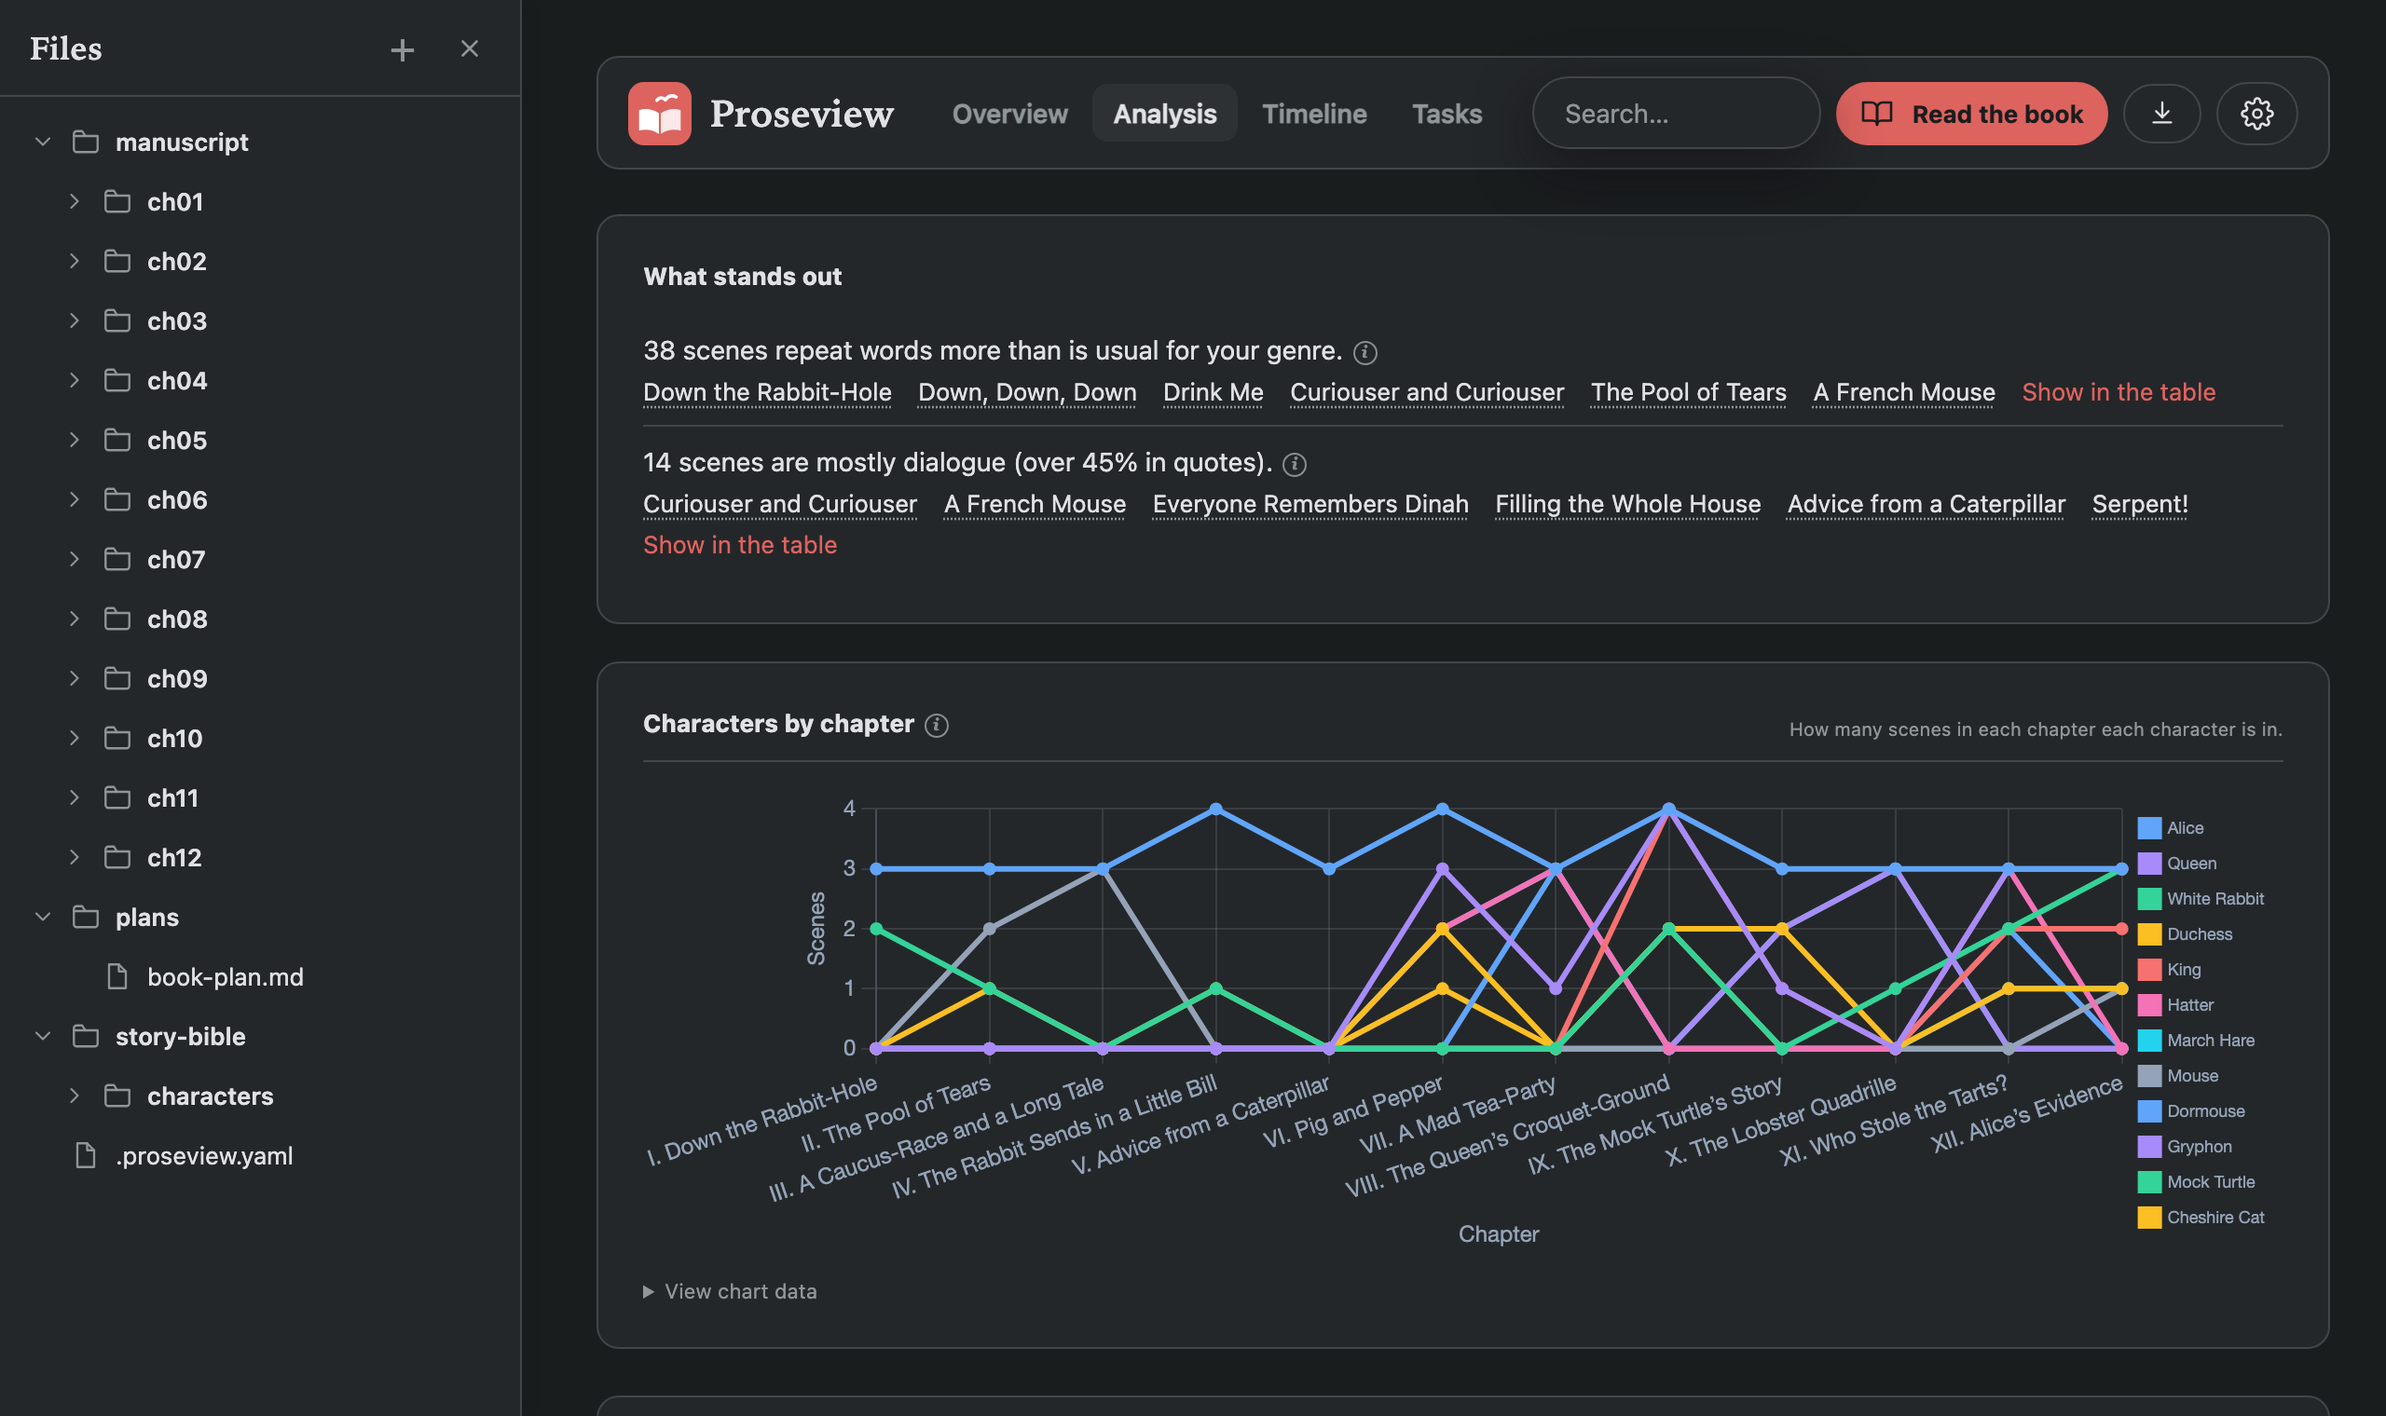
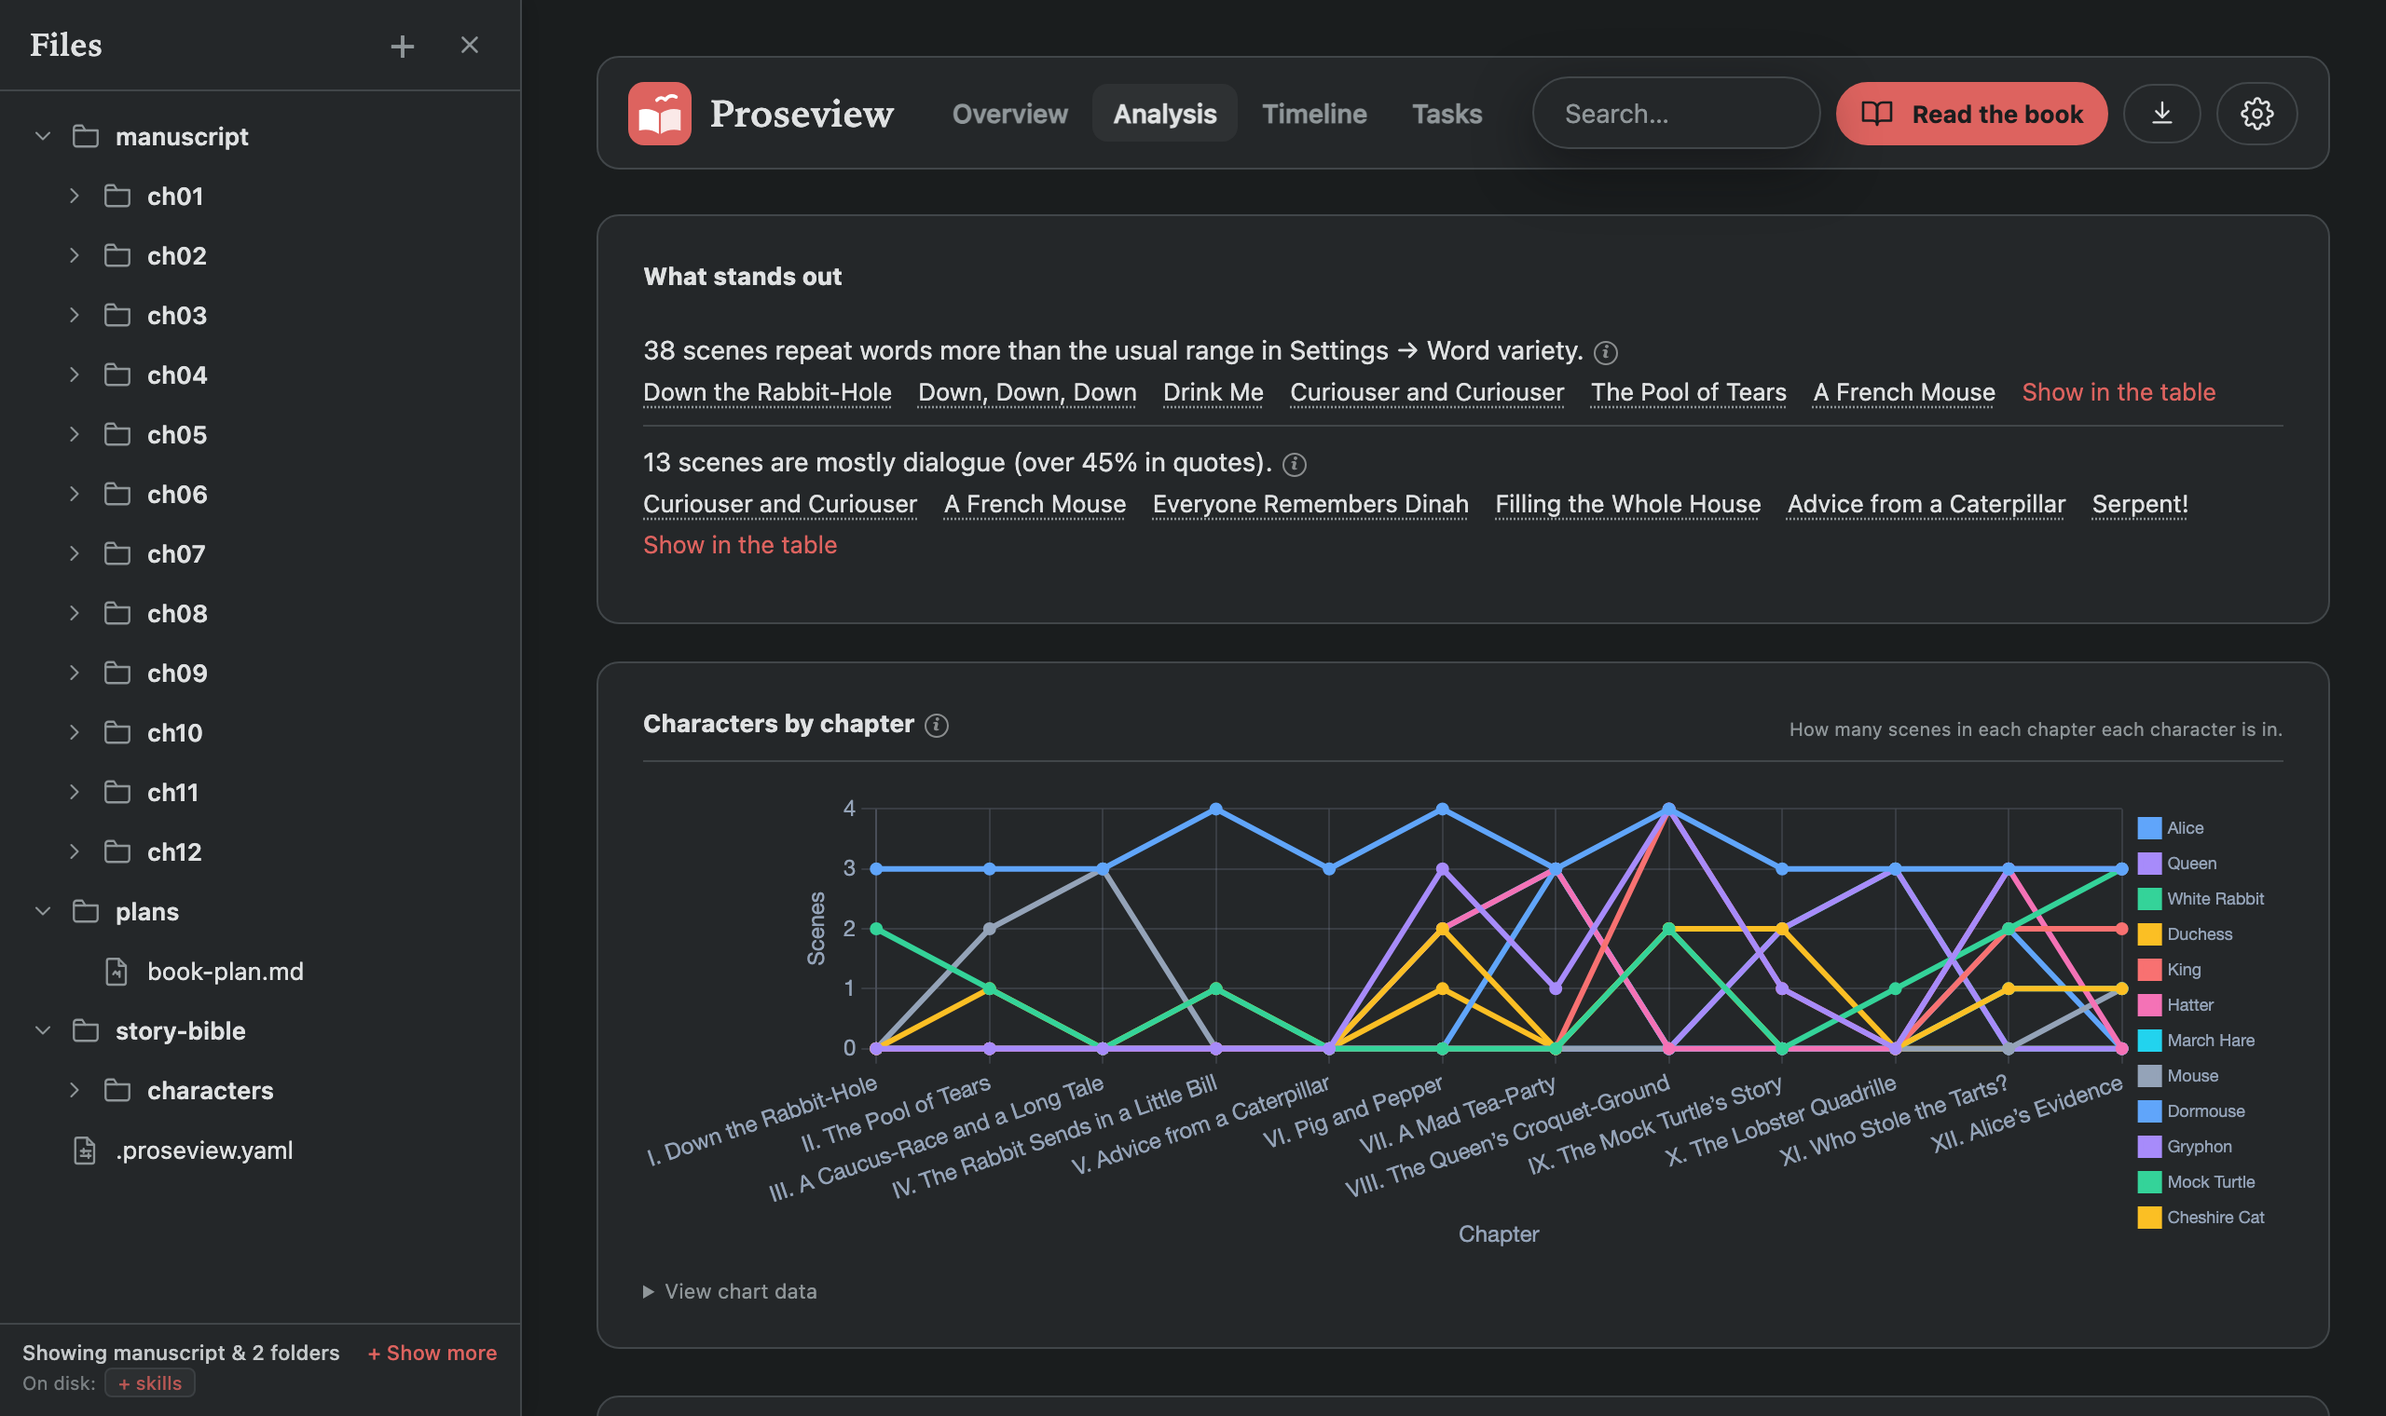
Refresh feature documentation and product screenshots
Describe scene beat maps, editorial passes, agent conversations, installation,
and everyday commands. Update the existing screenshots and animated demos.

Validation:
- Checked README image references and verified the 10 updated media files
- Skipped tests for this documentation-only group

diff --git a/README.md b/README.md
@@ -13,19 +13,14 @@
 [Start a book in your browser](https://ourarash.github.io/proseview/write/) ·
 [Quick start](#quick-start)
 
-Proseview turns a folder of Markdown scenes into a place to write a book. Read
-and edit each scene on a typeset page, read the whole manuscript from start to
-finish, revise with prose analysis, and export an e-book, a print-ready PDF or
-a Word document. Your files stay plain `.md` where they are, so Proseview works
-alongside Obsidian, VS Code, Vim, git or any other tool, and a save changes
-only what you edited.
+Proseview turns a folder of Markdown scenes into a place to write, structure, revise, and publish a book.
 
-Everything runs on your computer: no account, subscription, database or
-telemetry. Asking an AI is optional and goes through the Codex or Claude you
-already use.
+You read and edit each scene in clean book typography instead of looking at raw Markdown code (`#`, `**`, YAML). Your files stay plain `.md` on your computer, so you can keep using Obsidian, VS Code, Vim, or Git alongside it. A save changes only what you edited.
+
+Everything runs locally on your machine: no account, no subscription, no database, and no telemetry. AI is optional and off until you ask; without it, Proseview is still a complete writing studio that works offline.
 
 ```bash
-pipx install "proseview[claude]"
+pipx install proseview
 proseview --root /path/to/your/novel
 ```
 
@@ -40,72 +35,126 @@ it as a folder to carry on in the installed app.
 
 ## Features
 
-### Write
+### Write and draft
 
-- **A typeset page that is also the editor.** Press `E` to edit the page you
-  are reading; `Mod-S` saves and returns to reading. A save rewrites only the
-  paragraphs you changed, and a conflict guard never overwrites a change made
-  in another editor.
-- **Read the book.** The whole manuscript as one continuous text, or page by
-  page exactly as Export will print it, and it reopens where you stopped.
-- **Every Markdown file.** Story bible, plans and notes open and edit the same
-  way, with backups. Obsidian wikilinks, callouts and embeds stay as written.
-- **Files and search.** Create, rename and move files from the sidebar;
-  `Mod-K` searches paths, metadata, TODOs, notes and prose from anywhere.
-- **Live reload and deep links.** Save in your own editor and the page
-  follows. Every scene has a URL. Six themes and seven fonts.
-- **Privacy screen.** Hold `Mod` and tap `J` twice (`Mod-J J`) to cover the
-  page with a plain budget spreadsheet; do it again to uncover it, with your
-  edit, caret and scroll as you left them.
+- **Read like a book, edit in place.** Your prose appears with comfortable
+  margins, serif type, and dialogue formatting, with no Markdown symbols in the
+  way.
+  Press `E` to edit directly on the page with the same typography; press `Mod-S`
+  to save and return to reading.
+- **Conflict guard.** If you edit a scene in Obsidian, Vim, or any external
+  editor while Proseview is open, Proseview prevents overwriting it and shows a
+  side-by-side diff of what changed on disk.
+- **Drafting aids and callouts.** Highlight any line to reformat it, add a
+  callout box (`> [!letter]` for letters or text messages), or drop in an inline
+  `<!-- TODO -->` or `<!-- NOTE -->` without leaving your drafting flow.
+- **Read the book.** Read the whole manuscript as one continuous text, or turn
+  on **Print layout** to read facing pages with running heads and chapter drops
+  exactly as Export will print them. It reopens where you stopped.
+- **Every Markdown file.** Story bibles, character bios, and worldbuilding
+  notes open and edit the same way, with automatic backups. Obsidian wikilinks,
+  callouts, and embeds stay as written.
+- **Files and search.** Create, rename, and move scenes from the sidebar;
+  `Mod-K` searches scene titles, YAML metadata, TODOs, notes, and prose across
+  the whole book.
+- **Privacy screen.** Press `Mod-J J` (hold `Mod` and tap `J` twice) to instantly
+  cover the page with a plain budget spreadsheet; do it again to uncover your
+  prose, caret, and scroll exactly where you left them.
   [Optional password →](docs/configuration.md#privacy-screen-password)
+
+### Structure and story
+
+- **Beat Map.** Your agent reads a scene and maps how it moves: its beats on
+  an estimated tension curve (from calm to crisis), and its moments by kind:
+  dialogue, action, inner thought, or silent reaction. Click a moment to jump
+  to its paragraph. It is made only when you ask, and is marked out of date
+  when the scene changes.
+- **Timeline and storylines.** See the proportion of your chapters, words per
+  scene, and storylines as parallel lanes. Compare reading order against story
+  chronology so flashbacks and out-of-order scenes are easy to audit.
+- **Character presence and pairings.** See which chapters each character
+  appears in, and check a co-occurrence chart to see which characters share
+  scenes and who never meets.
+- **Progress and What changed.** A Progress card tracking words against your
+  goal, today's word count, writing pace, and streak. **What changed** shows
+  the words written and cut scene by scene, either by period or against a Git
+  commit.
 
 ### Revise
 
-- **Dashboard.** A Progress card for the book against its goal, with today's
-  words, pace, writing streak and days to finish, and **What changed**: the
-  words written and cut in each scene. Below it, the scenes you worked on last
-  and the scene list.
-- **Analysis.** Opens with what stands out, in plain sentences that name the
-  scenes, then who is in each chapter, words by place and word variety. Every
-  figure has an ⓘ that says what it measures.
-  [What the numbers mean →](docs/analytics.md)
-- **Editorial highlights.** Nine prose passes marked on the page, each with
-  its match count: repetition, passive voice, filter verbs, crutch words,
-  hyperbole, lyrical reach, sensory density, repeated sentence openings and
-  first-person slips.
-- **Timeline.** The shape of the book, storylines as lanes, and reading order
-  against the order events happen.
-- **TODOs and notes.** Select a passage and add a `TODO` or a tagged `NOTE`;
-  it is saved in the file as a Markdown comment, and the Tasks tab lists them
-  all.
-- **File history.** Earlier versions of a scene, restored through a diff you
-  can read first.
+- **13 Editorial passes.** Built-in checks mark the page with quiet underlines
+  and match counts:
+  - *Pacing and flow:* sticky sentences (glue words that slow a sentence
+    down) and repeated sentence openings.
+  - *Repetition:* echoes (a word back within 50 words) and the scene's most
+    repeated words.
+  - *Clarity and style:* passive voice, filter verbs ("she heard", "he saw"),
+    crutch words, hyperbole, figurative language, and sensory details.
+  - *Dialogue and POV:* dialogue tags (fancy verbs, adverbs, long runs with no
+    tag), all speech tinted, and first-person slips in third-person scenes.
+- **Highlight cards.** Click any mark for a short note on what the check
+  found. With an agent, **Suggest** offers rewrites in the card, and one click
+  applies one.
+- **Word variety (MATTR & MTLD).** Tracks vocabulary richness across nearby
+  words and whole scenes against typical ranges for your genre (contemporary,
+  literary, speculative, or children's). Every metric includes an ⓘ explaining
+  how it is measured. [What the numbers mean →](docs/analytics.md)
+- **Tasks and notes.** Aggregates every `TODO` and tagged `NOTE` comment across
+  all scene files into one place so you don't lose track of revision thoughts.
+- **File history.** Step back through earlier versions of a scene, comparing
+  changes in a side-by-side or inline diff before restoring.
 
 ### Publish
 
-- **EPUB, PDF and Word.** Export the whole book, a chapter, a scene or any mix
-  as a styled e-book, a print-ready paperback interior (5 × 8 to 6 × 9 in, or
-  A5), a PDF to share, or a Word document for an editor's tracked changes, in
-  four styles including standard manuscript format. Preview the pages first,
-  and get a plain-language check that the book is ready for the stores.
-  [Export guide →](docs/export.md)
-- **A read-only copy to share.** `proseview snapshot` writes the dashboard as
-  a static site for beta readers. [Details →](#share-a-read-only-copy)
+- **Print-ready PDF.** Typesets a paperback interior using Typst across
+  standard trim sizes (5 × 8, 5.25 × 8, 5.5 × 8.5, 6 × 9 in, or A5). Includes
+  recto chapter starts, running heads, and page numbers.
+- **EPUB e-books.** Exports clean, store-ready EPUB3 files with your cover art,
+  metadata, and formatted chapters.
+- **Word documents (`.docx`).** Exports formatted manuscripts for editors or
+  beta readers, including standard submission manuscript format with support for
+  tracked changes.
+- **Interactive print preview.** Preview the facing pages, trim sizes, and
+  typography before exporting. [Export guide →](docs/export.md)
+- **A read-only copy to share.** `proseview snapshot` compiles the dashboard
+  into a static website you can host anywhere (such as GitHub Pages) for beta
+  readers to browse. [Details →](#share-a-read-only-copy)
 
-### Ask an agent (optional)
+### Working with an agent (optional)
 
-Proseview has no model and needs no API key. It drives the Codex and Claude
-command-line tools already signed in on your computer, one tab each in the side
-panel, each with its own conversation about the project. An agent sees the file
-you have open, your selection and any file you `@`mention, and reads the rest of
-the project itself, as it does in the VS Code extensions. Claude uses your own
-Claude settings (permissions, `CLAUDE.md`, skills, MCP servers); Codex asks
-before running a command that would change something.
+Proseview has no AI model of its own and needs no API keys. It drives the
+Codex or Claude command-line tools already installed and signed in on your
+computer, so your agent works under your own account and its own privacy
+terms. Proseview itself sends nothing anywhere.
 
-An edit an agent makes is saved and summarised in a card with the diff,
-**Undo all** and **Looks good**. Reading passes such as Quick critique make no
-edits, and continuity questions come back with citations. Nothing runs until
-you ask. [How the AI features work →](docs/ai.md)
+Nothing runs until you ask:
+
+- **The Writers’ Room.** One conversation with two editors (by default, a
+  **Story Editor** for plot and pacing and a **Voice Editor** for tone and
+  style) who discuss your book with you and with each other. `@mention` one to
+  ask just them.
+- **Codex and Claude tabs.** One tab per agent in the side panel, each with
+  its own conversation. Mention files with `@` or select prose to ask about
+  it.
+- **Edits you can see.** An edit an agent makes is saved and shown in a card
+  with the diff, **Undo all** and **Looks good**.
+- **Continuity checks.** Ask whether a passage fits the rest of the book, and
+  the answer cites the lines it relies on.
+
+[How the AI features work →](docs/ai.md)
+
+## Everyday shortcuts
+
+| Key | Action |
+| :--- | :--- |
+| `E` | Edit the scene you are reading |
+| `Mod-S` | Save edits and return to reading |
+| `Mod-K` | Search scenes, notes, and prose |
+| `Mod-J J` | Cover / uncover with the privacy screen |
+| `P` | Polish the selected prose with your agent |
+| `A` | Ask an agent about the selected passage |
+| `X` | Open the Export dialog |
+| `F` / `Shift-F` | Distraction-free focus layout / Fullscreen |
 
 ## Screenshots
 
@@ -173,13 +222,13 @@ Wonderland* (public domain), split into 39 scenes across 12 chapters. See
 Requires Python 3.11+ on macOS, Linux or Windows.
 
 ```bash
-pipx install "proseview[claude]"
+pipx install proseview
 proseview --root /path/to/your/novel
 ```
 
-A browser tab opens at `http://localhost:7842`; press Ctrl-C to stop. The
-`[claude]` extra adds what the Claude tab needs; leave it off if you will not
-use Claude.
+A browser tab opens at `http://localhost:7842`; press Ctrl-C to stop. If you
+want to use Claude in the side panel, install the `[claude]` extra instead:
+`pipx install "proseview[claude]"`.
 
 Proseview's book features read a `manuscript/` folder with one folder per
 chapter and one Markdown file per scene. Frontmatter is optional. Point it at a
@@ -222,13 +271,24 @@ the folder's name. `--demo` also lets visitors try editing (saved only in their
 browser) and download ready-made EPUB, PDF and Word files. `--title`,
 `--site-url` and `--preview-image` set how a link to it looks when shared.
 
+## CLI commands
+
+| Command | Description |
+| :--- | :--- |
+| `proseview serve` | Start the local dashboard server (default) |
+| `proseview export` | Compile the manuscript into an EPUB, PDF, or Word document |
+| `proseview snapshot` | Write a read-only copy of the dashboard as static files |
+| `proseview roster` | Suggest character names found in the manuscript prose |
+| `proseview privacy-password` | Set or change the password that uncovers the privacy screen |
+| `proseview init` | Write a starter `.proseview.yaml` in the book's folder |
+
 ## Configuration
 
 Proseview needs no config file. A `.proseview.yaml` at the root of the book can
 change where things live, set word goals, choose which agent tab opens first,
 or point the Timeline at your own frontmatter keys; `proseview init` writes a
-starter file. Goals, word variety (genre) and colour theme can also be changed in Settings,
-behind the gear in the header.
+starter file. Goals, word variety (genre), and color theme can also be changed
+in Settings, behind the gear in the header.
 
 ```yaml
 manuscript_path: manuscript/
